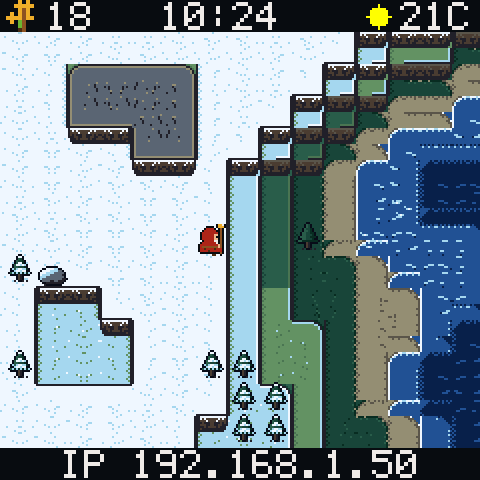
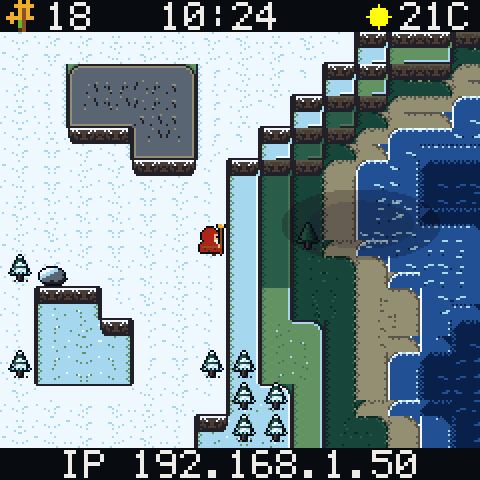
r5: tests, screenshots, docs, tuned sickness risk and forest
Claude-Session: https://claude.ai/code/session_014RL3AjDiogV1FwtcmzD5Ni

Changed region(s): [[0.5938, 0.375, 0.9375, 0.5625]]

diff --git a/test/test_weather.cpp b/test/test_weather.cpp
@@ -197,7 +197,7 @@ static void test_risk() {
       for (int m = 0; m < 17 * 60; m++) {
         minute(wall);
         if (k == 3) gc_debug(GQ_DBG_FOOD, 0);
-        if (k == 2 && m % 15 == 0) gc_debug(GQ_DBG_THIRST, 25);       // never drinks (they do drink: this keeps the thirst up)
+        if (k == 2 && m == 16 * 60 + 50) gc_debug(GQ_DBG_THIRST, 30);   // very thirsty at 23:50, asleep and unable to drink before the midnight check
       }
       int n = vq(Q_ONSETS) - o0;
       (k == 0 ? clear : k == 1 ? rain : k == 2 ? thirsty : hungry) += n;
@@ -252,6 +252,7 @@ static void test_no_infirmary() {
     run(wall, 60);
     int k = villager(1);
     CHECK(k >= 0);
+    gc_debug(GQ_DBG_WOOD, 0); gc_debug(GQ_DBG_FAITH, 0);
     gc_debug(GQ_DBG_SICK, k);
     int midnights_sick = 0;
     for (int m = 0; m < 6 * 1440 && is_sick(k); m++) {
@@ -344,11 +345,11 @@ static void test_forest() {
     int felled = vq(Q_FELLED);
     total_felled += felled; regrew += ups > 0;
     std::printf("seed %u: trees %d -> %d (lowest %d), felled %d, saplings and stumps up to %d, wood %d\n", seed, trees0, vq(Q_TREES), min_trees, felled, max_saps, vq(Q_WOOD));
-    CHECK(felled >= 20);                                          // they do fell trees
+    CHECK(felled >= 10);                                          // they do fell trees
     CHECK(min_trees >= 3 || min_trees >= trees0 / 2);
     CHECK(vq(Q_TREES) >= 4);
     CHECK(ups >= 1);                                              // trees grow back
-    CHECK(vq(Q_WOOD) > 0);                                        // wood stays available
+    CHECK(vq(Q_TREES) > 5);                          // the wood source is still there (the last trees are left alone)
     CHECK(max_saps > 0 && stumps_seen > 0);
     // no tree stands on a building
     for (int i = 0; i < WM * WM; i++) if (MT_SOIL(g_map[i]) == SOIL_BUILT) CHECK(MT_OBJ(g_map[i]) == OB_NONE);
@@ -425,13 +426,19 @@ static void test_render() {
   for (int i = 0; i < 5; i++) gc_tick(100);
   gc_clear_dirty();
   gc_tick(100);
-  CHECK(__builtin_popcount(gc_dirty_mask() & 0x3FFE) >= 10);
+  int rain_dirty = __builtin_popcount(gc_dirty_mask() & 0x3FFE);
+  CHECK(rain_dirty >= 10);
   weather(-1, 9999);
   gc_set_live_weather(GC_WX_NONE, 0, 0);
   for (int i = 0; i < 40; i++) gc_tick(100);
+  gc_set_option(GC_OPT_SLEEP_MODE, 2);                                      // everybody in bed: nothing else moves
+  for (int i = 0; i < 600; i++) gc_tick(100);
   gc_clear_dirty();
   gc_tick(100);
-  CHECK(__builtin_popcount(gc_dirty_mask() & 0x3FFE) <= 6);                 // idle: only what changed
+  int idle_dirty = __builtin_popcount(gc_dirty_mask() & 0x3FFE);
+  std::printf("dirty map strips per 100 ms: rain %d, idle clear %d\n", rain_dirty, idle_dirty);
+  CHECK(idle_dirty <= 4);                                                   // idle: only what changed
+  gc_set_option(GC_OPT_SLEEP_MODE, 0);
   // night dims the map
   weather(GQ_W_CLEAR, 150);
   gc_set_live_weather(GC_WX_NONE, 0, 0);
@@ -541,23 +548,24 @@ static void test_save_sick() {
   CHECK(gc_save_import(buf, sizeof buf) == 0);
 }
 
-int main() {
+int main(int argc, char** argv) {
   setvbuf(stdout, 0, _IOLBF, 0);
-  test_mapping();
-  test_fields();
-  test_heat();
-  test_cold_wood();
-  test_risk();
-  test_healing();
-  test_no_infirmary();
-  test_untreated_deaths();
-  test_rainy_day_safe();
-  test_forest();
-  test_snow();
-  test_render();
-  test_lightning();
-  test_save_sick();
-  test_mixed_twenty();
+  const char* only = argc > 1 ? argv[1] : 0;      // a name filter for working on one test: test_weather risk
+  if (!only || std::strstr("test_mapping", only)) test_mapping();
+  if (!only || std::strstr("test_fields", only)) test_fields();
+  if (!only || std::strstr("test_heat", only)) test_heat();
+  if (!only || std::strstr("test_cold_wood", only)) test_cold_wood();
+  if (!only || std::strstr("test_risk", only)) test_risk();
+  if (!only || std::strstr("test_healing", only)) test_healing();
+  if (!only || std::strstr("test_no_infirmary", only)) test_no_infirmary();
+  if (!only || std::strstr("test_untreated_deaths", only)) test_untreated_deaths();
+  if (!only || std::strstr("test_rainy_day_safe", only)) test_rainy_day_safe();
+  if (!only || std::strstr("test_forest", only)) test_forest();
+  if (!only || std::strstr("test_snow", only)) test_snow();
+  if (!only || std::strstr("test_render", only)) test_render();
+  if (!only || std::strstr("test_lightning", only)) test_lightning();
+  if (!only || std::strstr("test_save_sick", only)) test_save_sick();
+  if (!only || std::strstr("test_mixed_twenty", only)) test_mixed_twenty();
   std::printf("test_weather: all passed\n");
   return 0;
 }

diff --git a/lib/gamecore/src/nature.inc.h b/lib/gamecore/src/nature.inc.h
@@ -14,7 +14,7 @@
 // Wood: lumberjacks fell trees (a stump stays), plant a sapling on the stump, saplings grow back into trees in 4 to 5 days, and the
 // forest seeds new saplings by itself, so wood never runs out for good (the lumberjacks leave the last trees alone).
 
-enum { SAP_N = 16, TREE_FLOOR = 6, TREE_TARGET = 36, NP = 32, MAPSTRIPS = 0x3FFE };
+enum { SAP_N = 24, TREE_FLOOR = 6, TREE_TARGET = 36, NP = 32, MAPSTRIPS = 0x3FFE };
 
 static uint16_t s_sap[SAP_N];                 // stumps and saplings: x | y << 5 | age days << 10 | sapling << 13, 0xFFFF = free
 static uint32_t s_wsnow[WM];                  // tiles where the weather put snow (one bit each); the permanent snow caps are not in it
@@ -84,7 +84,8 @@ static void sickness_day(void) {
       continue;
     }
     int h = hunger(i) > 3 ? 3 : hunger(i);
-    int risk = 1 + 3 * h + thirst(i) / 3 + (s_ill[i] & 15) + ((s_ill[i] & 16) ? 12 : 0) + (frail ? 3 : 0);
+    int ex = s_ill[i] & 15;
+    int risk = 1 + 3 * h + thirst(i) / 4 + 2 * (ex > 10 ? 10 : ex) + ((s_ill[i] & 16) ? 12 : 0) + (frail ? 3 : 0);
     if (risk > 60) risk = 60;
     s_ill[i] = 0;
     if ((int)(vr() % 100) < risk) { s_ill[i] = 0x80; s_sick = 1; s_onsets++; s_roles_dirty = 1; mark_tile(V[i].x, V[i].y); }

diff --git a/tools/shots.cpp b/tools/shots.cpp
@@ -80,7 +80,7 @@ static void focus(char c) {
       break;
     }
   } else if (c == 's') {
-    for (int k = 0; k < 16; k++) { int v = vq(211 + k); if (v >= 0) { ax += v & 255; ay += (v >> 8) & 255; n++; } }
+    for (int k = 0; k < 24; k++) { int v = vq(211 + k); if (v >= 0) { ax += v & 255; ay += (v >> 8) & 255; n++; } }
   } else if (c == 'h') {
     for (int i = 0; i < WM * WM; i++) if (MT_H(g_map[i]) >= 5 && MT_H(g_map[i]) <= 6) { ax += i % WM; ay += i / WM; n++; }
   }
@@ -170,7 +170,7 @@ int main(int argc, char** argv) {
       for (int i = 0; i < 4000; i++) {
         int cam_x = (int)gc_query(GQ_Q_CAM_X), cam_y = (int)gc_query(GQ_Q_CAM_Y), hit = 0;
         for (int k = 0; k < 4; k++) {
-          int dx = vq(230 + k) - cam_x - 120, dy = vq(234 + k) - cam_y - 120;
+          int dx = vq(240 + k) - cam_x - 120, dy = vq(244 + k) - cam_y - 120;
           if (dx > -30 && dx < 30 && dy > -20 && dy < 20) hit = 1;
         }
         if (hit) break;

diff --git a/lib/gamecore/src/village.cpp b/lib/gamecore/src/village.cpp
@@ -753,7 +753,7 @@ int village_stat(int which) {
     case 14: { int n = 0; for (int i = 0; i < MAXV; i++) if (used(i) && vact(i) == A_SLEEP) n++; return n; }
     default: break;
   }
-  if (which >= 230 && which < 238) return which < 234 ? s_cs[which - 230][0] : s_cs[which - 234][1];      // cloud shadows: x, then y (world pixels)
+  if (which >= 240 && which < 248) return which < 244 ? s_cs[which - 240][0] : s_cs[which - 244][1];      // cloud shadows: x, then y (world pixels)
   if (which >= 211 && which < 211 + SAP_N) { uint16_t e = s_sap[which - 211]; return e == 0xFFFF ? -1 : (sap_x(e) | (sap_y(e) << 8) | (sap_age(e) << 16) | (sap_kind(e) << 20)); }
   if (which >= 20 && which < 20 + R_COUNT) { int n = 0; for (int i = 0; i < MAXV; i++) if (used(i) && vrole(i) == which - 20) n++; return n; }
   if (which >= 40 && which < 40 + B_COUNT) return count_done(which - 40);

diff --git a/README.md b/README.md
@@ -5,15 +5,13 @@ spends the faith that villagers produce to reshape the land and to lay out homes
 workshops. You never press anything: it is a clock with a little world in it. The full plan is in
 [docs/DESIGN.md](docs/DESIGN.md).
 
-**Status: release r4, the shaman builds.** The shaman now makes the decisions. Every 10 game minutes he scores the
-village's needs (food, housing, water, health, wood, growth, faith, monument), picks the most pressing project he can
-afford and carries it out one tile at a time: he walks beside the tile, raises his staff with sparkles, and the land changes
-by one layer, paid in faith. He levels plots, digs a pond when there is no coast, cuts ramps so that everything stays
-walkable, and lays out all thirteen buildings (tent, hut, cottage, manor, wheat field, orchard, animal pen, fishing hut, well,
-lumberjack hut, granary, shrine, infirmary) that the builders then construct in three visible stages. Villagers still eat
-three meals a day, drink, sleep on the clock's schedule, have children, age and die (r3). The bottom band shows his
-project. The recovery layer, update page, rescue hotspot, WiFi, weather, time zone, sleep schedule and flash saving are
-unchanged from r1.
+**Status: release r5, weather, sickness and wood.** The real weather now plays in the game. Rain, storms, snow, heat, cold and
+fog (the Open-Meteo reading the clock already fetches) change how the fields grow, how thirsty people are, how much firewood the
+village burns and who falls sick; there is rain, snow, lightning, haze and drifting cloud shadows on the screen. Villagers get sick
+(more often when hungry, thirsty, cold or wet), an infirmary with a healer cures them in a day, and untreated sickness can kill the
+old and the weak. Lumberjacks fell trees, plant saplings on the stumps and the forest grows back. The shaman (r4) still decides what
+to build; he now builds the infirmary for the first sick villager. The recovery layer, update page, rescue hotspot, WiFi, time
+zone, sleep schedule and flash saving are unchanged.
 
 **Download:** every build of the `main` branch is published on the
 [Releases page](https://github.com/techconcert/MiniGodus/releases). Releases are named by number
@@ -130,7 +128,7 @@ The top bar: ![](docs/screenshots/topbar-counters.png)
 | ![](docs/screenshots/town-day20-mountain-plateau-northern.png) | |
 
 **Needs and projects.** He scores food (less than 2 days of food, or too few fields), housing (fewer beds than people),
-water (a home with no water within 8 tiles), health (the first weak villager wants an infirmary; healing comes in r5),
+water (a home with no water within 8 tiles), health (the first sick villager wants an infirmary, r5),
 wood, growth (a new home tier unlocked: a flat 3x3 plot beside the homes first, then the home), faith (no shrine) and
 monument (a hook for r6). A pond has its own need when there is no coast. A world's seed decides his personality: farmer
 (green robe), herder (sand), fisher (blue), builder (red). It biases the scores and the choice of food building.
@@ -160,7 +158,7 @@ second pond for fish (LEVELLING LAND on the band). A building that trees have sh
 | Lumberjack hut | 2x2 | 4 | more wood per tree |
 | Granary | 2x2 | 10 | food cap +100 |
 | Shrine | 2x2 | 6 | +1 faith per half hour, praying elders count 3 |
-| Infirmary | 2x2 or 3x2 | first weak villager | r5 heals |
+| Infirmary | 2x2 or 3x2 | first sick villager | heals in 1 day with a healer (3 days without) |
 
 A bigger home may replace tents and huts. Eating from three or more of the four food sources (grain, fruit, animal, fish)
 in one day makes the village content: 25% more faith until midnight.
@@ -168,6 +166,66 @@ in one day makes the village content: 25% more faith until midnight.
 **Memory.** The shaman costs about 100 bytes of static RAM (project, reserved plots, last ramps) and the buildings table grew
 from 32 to 40 entries; every search shares the one distance buffer. The saved game (still 192 bytes, version 4) now keeps each building's
 size, but not the dug land: after a load the land is generated again and healed at once, free of charge.
+
+## Weather, sickness and wood (r5)
+
+The weather is the live Open-Meteo reading (WMO weather code and temperature, every 30 minutes). `wx_state()` in
+`lib/gqsafe/src/wxparse.cpp` maps the code to the game's states: 0 to 3 clear or cloudy (windy above 29 km/h), 45 and 48 fog,
+51 to 67 and 80 to 82 rain, 71 to 77, 85 and 86 snow, 95 to 99 thunderstorm. With no reading (no WiFi, a failed fetch) the game is
+mild and dry: clear sky, 15 C, no rain, no shadows, no frost, no heat.
+
+| Weather | On screen | In the game |
+|---|---|---|
+| Rain, drizzle | animated rain, puddles that gather on the low land and dry again | fields grow 50% faster, fishers catch 1 more, people working outside collect exposure |
+| Thunderstorm | heavier slanted rain, a lightning bolt now and then that brightens one or two strips | like rain, and everybody goes home: nobody works outside while it lasts (they eat and drink at home) |
+| Snow | falling snow; snow settles on the high layers in three steps (layer 6, then 5, then 4) and melts away again | fields stop, it counts as cold (firewood) |
+| Above 28 C | | thirst comes twice as often, water carriers are hired in numbers (up to 3) |
+| Below 8 C | | each occupied home burns 1 wood per night (chimney smoke until 09:00); lumberjacks come first; a home without wood is a cold home |
+| Fog | haze, thicker at the top of the screen | none |
+| Clear, cloudy, windy | cloud shadows drift over the land (2, 4 or 3 of them) | none |
+| Night (the clock's sleep schedule) | the map is dimmed | everyone sleeps |
+
+| Rain | Thunderstorm | Snow on the high layers |
+|---|---|---|
+| ![](docs/screenshots/weather-rain.png) | ![](docs/screenshots/weather-storm.png) | ![](docs/screenshots/weather-snow.png) |
+
+| Heat, water carriers | Cold night, chimney smoke | Fog |
+|---|---|---|
+| ![](docs/screenshots/weather-heat.png) | ![](docs/screenshots/weather-cold-night.png) | ![](docs/screenshots/weather-fog.png) |
+
+| Cloud shadows | An infirmary with a sick villager (green cross) | Lumberjack, stumps and saplings |
+|---|---|---|
+| ![](docs/screenshots/weather-clouds.png) | ![](docs/screenshots/infirmary-sick.png) | ![](docs/screenshots/lumberjack-saplings.png) |
+
+**Sickness.** Once a day, at midnight, every villager rolls against a risk of 1% plus: 3% for each missed meal (up to 3), a quarter of
+a percent per thirst point, 2% per half hour spent outside in the rain (up to 10 half hours, 20%), 2% per hour outside in the cold (counted together), 12% for a night in a
+cold home without wood, and 3% for elders and the weak. A sick villager does not work, walks to the infirmary and wears a green tunic and
+a green cross. With an infirmary and a healer the sickness is over at the next midnight; an infirmary with nobody to tend it takes 2 days,
+no infirmary 3 days. Untreated, a sick elder or weak villager dies with a 25% chance at each midnight (6% in an infirmary with no healer);
+healthy children and adults never die of it. A healer is hired as soon as somebody is sick and there is an infirmary. The shaman's health
+need (the top of his list) builds the infirmary when the first villager falls sick, hunger alone does not call for one.
+
+**Wood.** A lumberjack walks to a tree, fells it (3 wood, 4 with a lumberjack hut) and leaves a stump; his next swing plants a sapling on the
+stump. A sapling becomes a tree after 4 to 5 days (never beside a building, on a reserved plot or on the green, never where the tree would shut a
+path); a stump left alone rots away after 3 days. The forest also seeds saplings beside its own trees (up to 36 trees and saplings, more when the
+forest is nearly gone). Lumberjacks leave the last 6 trees alone and never fell on a reserved plot or a project footprint.
+
+**Debug commands** (`GQ_DBG_*` in `lib/gamecore/src/gq_types.h`, used by the tests and `tools/shots.cpp`; the browser preview's live weather menu does the
+same through the normal reading): `GQ_DBG_WEATHER` forces a weather (and its top bar icon), `GQ_DBG_TEMP` forces the temperature in tenths of a degree,
+`GQ_DBG_SICK` makes a villager sick, `GQ_DBG_AGE` makes one an elder or weak, `GQ_DBG_FLASH` strikes lightning now.
+
+**Cost.** Rain and snow are 24 to 32 particles in one fixed array, moved every 100 ms and drawn into the strips that are being drawn anyway (the
+map strips are redrawn about 10 times a second while it rains or snows; clear weather redraws only what changed, plus the slow cloud shadows).
+Puddles, haze, shadows, the night dimming and the lightning are per strip, with no full-screen buffer.
+
+**Memory and save.** The weather, sickness and forest add about 340 bytes of static RAM (sick state 48 bytes, snow map 128, saplings 32, particles 64,
+shadows 8, counters). The saved game keeps 192 bytes, version 4: a villager's sick state is one more bit in the villager's record (old saves read
+as healthy), so an r4 save loads. The weather itself, the snow, the stumps and the saplings are not saved (the weather comes from the live reading, and
+the forest is regenerated from the seed on load), nor is the sickness of the villagers beyond the first 16.
+
+**Known limits of r5:** the full multi-slot save is r6; the forest, felled trees and saplings come back as generated after a restart; a sick villager is
+sick for the whole time (no partial recovery); the night dimming has no lit windows yet; weather does not stop the shaman casting; cloud shadows and the
+night dimming are drawn over buildings and people as a flat tint.
 
 ## Hardware
 

diff --git a/RELEASE-NOTES.md b/RELEASE-NOTES.md
@@ -1,3 +1,13 @@
+What is new in MiniGodus r5:
+
+- Weather plays. The reading the clock already fetches (WMO code, temperature) now drives the game; with no reading the game is mild and dry. Rain and drizzle: animated rain, puddles on the low land, fields grow 50% faster, fishers catch more, people outside collect exposure. Thunderstorm: heavier rain, lightning, and everybody shelters at home (no outdoor work while it lasts). Snow: snow settles on the high layers in three steps and melts away again (the land is as it was), fields stop, firewood is needed. Above 28 C thirst comes twice as often and more water carriers are hired. Below 8 C each occupied home burns 1 wood a night (chimney smoke), lumberjacks come first, and a cold home with no wood raises sickness. Fog: haze. Clear and cloudy: drifting cloud shadows. The map is dimmed at night.
+- Sickness. A daily risk that rises with hunger, thirst, cold and rain exposure. Sick villagers do not work, walk to the infirmary and show a green tunic and cross. An infirmary with a healer cures at the next midnight, an infirmary with no healer in 2 days, no infirmary in 3. Untreated, elders and weak villagers can die (25% a midnight); healthy fed adults never die of it. The shaman builds the infirmary when the first villager falls sick (hunger no longer calls for one) and a healer is hired when somebody is sick and there is an infirmary.
+- Wood. Lumberjacks fell trees (a stump stays), plant a sapling on the stump, and saplings grow into trees in 4 to 5 days (never on a building, a reserved plot, the green, or where it would shut a path). The forest seeds new saplings itself; the last 6 trees are left alone, so wood never runs out for good.
+- Debug commands GQ_DBG_WEATHER, GQ_DBG_TEMP, GQ_DBG_SICK, GQ_DBG_AGE, GQ_DBG_FLASH and the query GQ_Q_TEMP10, for the tests and the screenshots.
+- Cost: about 340 bytes of RAM (budget 1.0 KB); the saved game is still 192 bytes, version 4 (one more bit per villager), so an r4 save loads. Recovery layer, update page, hotspot, safe mode, the flash area 0x80000-0x82FFF and the size limits are unchanged.
+- Tests: test/test_weather.cpp (WMO mapping and the no-reading default; rain boosts fields by 50%, snow and frost pause them; heat doubles thirst; cold burns one wood per occupied home per night; sickness rises with rain, thirst, hunger and cold homes; heals in 1 day with an infirmary and a healer, 3 without; kills untreated elders and weak villagers but not healthy fed adults after a rainy day; the shaman builds the infirmary; 20 days of felling keep the forest alive; snow settles and melts back to the same land; strips render; 20 days on 20 seeds with a mixed schedule of rain, storm, snow, heat and cold). test_shaman and test_village are unchanged.
+- Known limits of r5: the full multi-slot save is r6 (the felled trees, saplings, snow and weather are not saved; the forest is generated again from the seed on load; sickness is saved for the first 16 villagers); no lit windows at night; the weather does not stop the shaman; rain and snow redraw the map about 10 times a second.
+
 What is new in MiniGodus r4:
 
 - The shaman decides. Every 10 game minutes, when he is free, he scores the village's needs (food, housing, water, health, wood, growth, faith, monument, and a pond when there is no coast), adds a personality bias and starts the most pressing project he can afford. He carries it out one tile at a time, visibly: he walks beside the tile, raises his staff (new cast animation with sparkles), and the tile changes by one layer. The bottom band shows the project (DIGGING POND, FLATTENING PLOT, BUILDING HUT, CUTTING RAMPS). His robe colour shows his personality: farmer green, herder sand, fisher blue, builder red (picked from the world seed).
